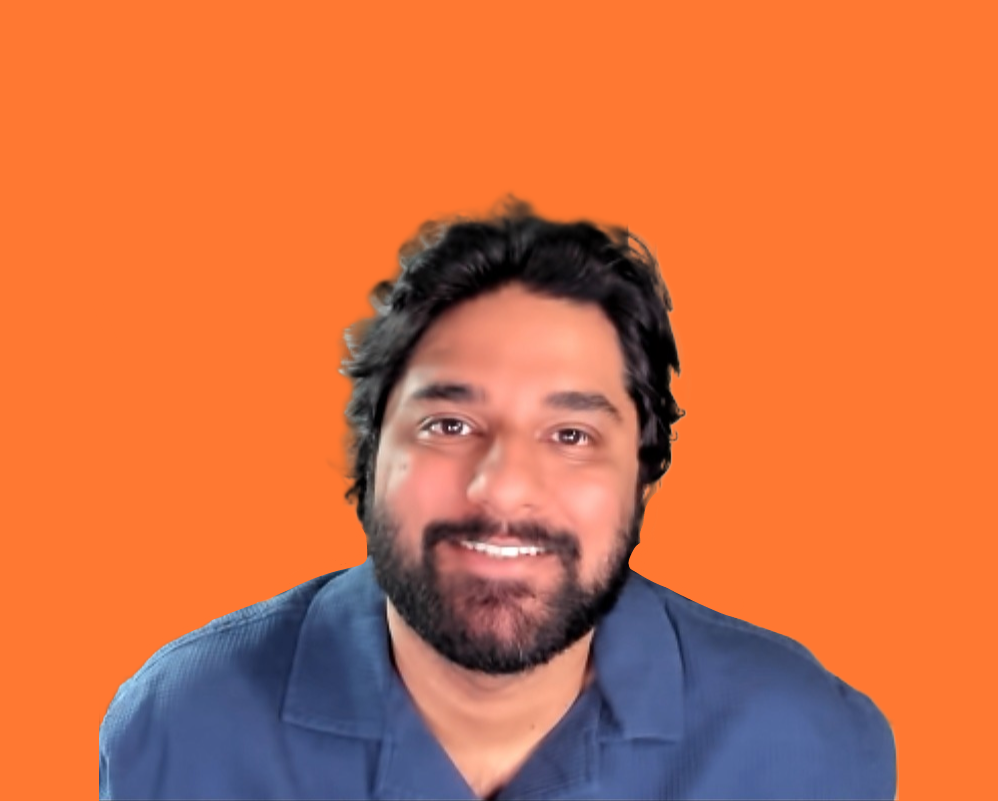
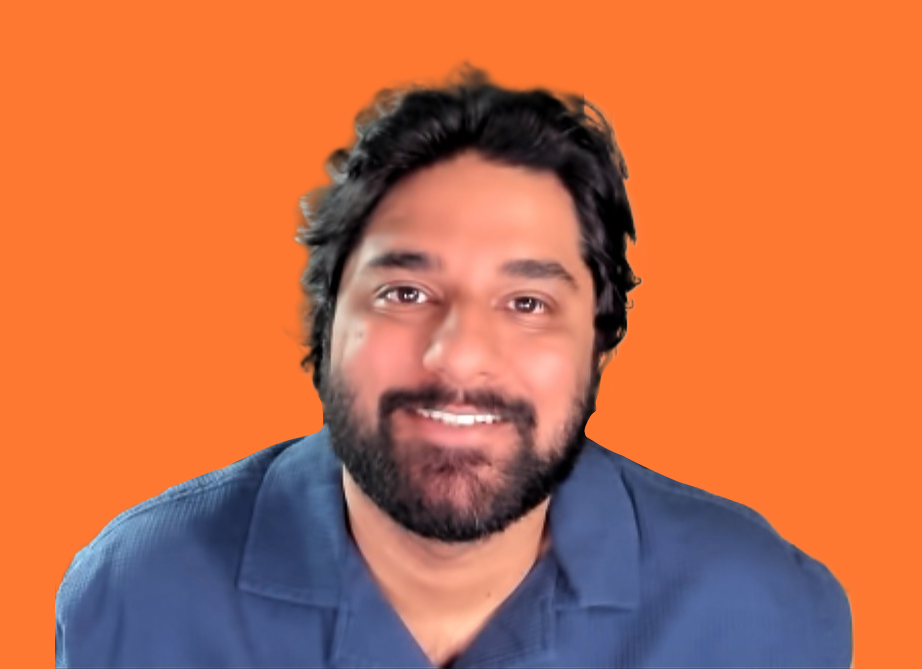
optimized for mobile, updated profile picture

Changed region(s): [[0.0607, 0.0897, 0.9414, 1.0], [0.3341, 0.9268, 0.3948, 1.0], [0.4252, 0.8969, 0.4555, 0.9567]]

diff --git a/app/Components/About.js b/app/Components/About.js
@@ -24,32 +24,47 @@ const About = () => {
   }, []);
 
   return (
-    <div className="flex space-y-9 flex-col">
-      <div className="flex flex-col absolute">
-        <h1 id="about" className="text-5xl font-spacemono text-white">
-          I love to
-        </h1>
-        <h1
-          className="text-7xl inline-block font-spacemono font-extrabold text-rose-500"
-          ref={el}
+    <div className="space-y-9 md:p-5">
+      <div className="md:flex md:flex-row md:justify-center space-x-56">
+        <div className="flex justify-center space-y-40 md:space-y-0">
+          <img src="/Monke.png" className="md:hidden rounded-full h-40" />
+          <div className="flex flex-col absolute md:pt-24">
+            <h1 id="about" className="text-5xl font-spacemono text-white">
+              I love to
+            </h1>
+            <h1
+              className="text-7xl inline-block font-spacemono font-extrabold text-rose-500"
+              ref={el}
+            />
+          </div>
+        </div>
+        <img
+          src="/Monke.png"
+          className="hidden md:block rounded-full md:h-72"
         />
       </div>
-      <div className="flex justify-center flex-row ">
-        <span className="pt-40 text-white font-spacemono">
+
+      <div className="flex flex-col justify-center md:flex-row space-y-5">
+        <span className="md:pt-0 pt-28 px-5 text-white font-spacemono">
           Howdy! I'm Akash, a Full-Stack Engineer passionate about creating
           delightful user experiences.
         </span>
-        <img src="/web-developer.svg" className="w-3/5 mt-[-175px] " />
       </div>
-      <div className="flex flex-row justify-evenly space-x-5">
+      <div className="flex flex-row justify-center md:space-x-56 space-x-24">
         <button className="text-white ease-out hover:translate-y-1 transition-all rounded">
           <a href="https://github.com/akashrdev" target="_blank">
-            <FontAwesomeIcon icon={faGithub} font-size="50px" />
+            <FontAwesomeIcon
+              icon={faGithub}
+              className="md:text-50px text-4xl"
+            />
           </a>
         </button>
         <button className=" text-blue-500 ease-out hover:translate-y-1 transition-all rounded">
           <a href="https://www.linkedin.com/in/akashrajan/" target="_blank">
-            <FontAwesomeIcon icon={faLinkedin} font-size="50px" />
+            <FontAwesomeIcon
+              icon={faLinkedin}
+              className="md:text-50px text-4xl"
+            />
           </a>
         </button>
         <button
@@ -58,13 +73,16 @@ const About = () => {
           className="btn text-yellow-500 ease-out hover:translate-y-1 transition-all rounded"
         >
           <a href="mailto:akashrdev@gmail.com?subject=I want to see your skills in action!">
-            <FontAwesomeIcon icon={faEnvelope} font-size="50px" />
+            <FontAwesomeIcon
+              icon={faEnvelope}
+              className="md:text-50px text-4xl"
+            />
           </a>
         </button>
       </div>
       <div className="flex justify-center">
         <a href="/Akash Rajan Resume.pdf" target="_blank">
-          <button className="bg-rose-500 rounded-lg text-white text-3xl font-spacemono justify-center py-3 px-5 flex hover:translate-y-1 transition-all">
+          <button className="bg-rose-500 rounded-lg text-white md:text-3xl text-2xl py-1 px-1 font-spacemono justify-center md:py-3 md:px-5 flex hover:translate-y-1 transition-all">
             Resume
           </button>
         </a>

diff --git a/app/Components/TechStack.js b/app/Components/TechStack.js
@@ -1,50 +1,51 @@
 const TechStack = () => {
   return (
-    <div className="flex flex-col border border-indigo-800 p-2">
-      <h1 className="flex text-4xl font-bold font-spacemono justify-center items-center text-white font-"></h1>
-      <div className="flex justify-center flex-row space-x-16 ">
+    <div className="flex flex-col border border-indigo-800 w-screen p-2 hidden md:block">
+      <h1 className="flex text-4xl font-spacemono justify-center items-center text-white font-"></h1>
+
+      <div className="relative flex justify-center flex-row md:space-x-16 space-x-5 align-middle">
         <img
-          className="h-16 w-16"
+          className="md:h-16 md:w-16 w-8"
           src="https://cdn.jsdelivr.net/gh/devicons/devicon/icons/javascript/javascript-plain.svg"
         />
 
         <img
-          className="h-16 w-16"
+          className="md:h-16 md:w-16 w-8"
           src="https://cdn.jsdelivr.net/gh/devicons/devicon/icons/react/react-original-wordmark.svg"
         />
 
         <img
-          className="h-16 w-16"
+          className="md:h-16 md:w-16 w-8"
           src="https://cdn.jsdelivr.net/gh/devicons/devicon/icons/nodejs/nodejs-original.svg"
         />
 
         <img
-          className="h-16 w-16"
+          className="md:h-16 md:w-16 w-8"
           src="https://cdn.jsdelivr.net/gh/devicons/devicon/icons/express/express-original.svg"
         />
 
         <img
-          className="h-16 w-16"
+          className="md:h-16 md:w-16 w-8"
           src="https://cdn.jsdelivr.net/gh/devicons/devicon/icons/postgresql/postgresql-plain-wordmark.svg"
         />
 
         <img
-          className="h-16 w-16"
+          className="md:h-16 md:w-16 w-8"
           src="https://cdn.jsdelivr.net/gh/devicons/devicon/icons/mongodb/mongodb-plain-wordmark.svg"
         />
 
         <img
-          className="h-16 w-16"
+          className="md:h-16 md:w-16 w-8"
           src="https://cdn.jsdelivr.net/gh/devicons/devicon/icons/docker/docker-plain-wordmark.svg"
         />
 
         <img
-          className="h-16 w-16"
+          className="md:h-16 md:w-16 w-8"
           src="https://cdn.jsdelivr.net/gh/devicons/devicon/icons/amazonwebservices/amazonwebservices-plain-wordmark.svg"
         />
 
         <img
-          className="h-16 w-16 text-white"
+          className="md:h-16 md:w-16 w-8 text-white"
           src="https://cdn.jsdelivr.net/gh/devicons/devicon/icons/nextjs/nextjs-original-wordmark.svg"
         />
       </div>

diff --git a/app/Components/Header.js b/app/Components/Header.js
@@ -2,19 +2,12 @@ import '../../app/globals.css';
 
 const Header = () => {
   return (
-    <div className="h-13 w-screen flex flex-row justify-between p-8 items-end">
+    <div className="w-screen flex flex-row justify-between p-5 md:pl-16">
       <a href="#">
-        <h1 className="text-6xl text-white font-spacemono ">Akash Rajan</h1>
+        <h1 className="md:text-4xl text-4xl text-white font-spacemono ">
+          Akash Rajan
+        </h1>
       </a>
-      <div className="flex">
-        {/* <button
-          href="/Akash Rajan Resume.pdf"
-          target="_blank"
-          className="flex bg-rose-500 rounded-lg text-white text-3xl py-3 px-7"
-        >
-          Resume
-        </button> */}
-      </div>
     </div>
   );
 };

diff --git a/app/page.js b/app/page.js
@@ -10,16 +10,16 @@ const Home = () => {
         backgroundImage: "url('/bg1.jpg')",
       }}
     >
-      <div className="flex">
+      <div className="">
         <Header />
       </div>
-      <div className="flex justify-center pt-14 pb-9">
+      <div className="">
         <About />
       </div>
-      <div className="p-9">
+      <div className="">
         <TechStack />
       </div>
-      <div className="p-9">
+      <div className="">
         <ProjectList />
       </div>
     </div>

diff --git a/tailwind.config.js b/tailwind.config.js
@@ -8,13 +8,16 @@ module.exports = {
   ],
   theme: {
     extend: {
+      fontSize: {
+        '50px': '50px',
+      },
       animation: {
         marquee: 'marquee 25s linear infinite',
       },
       keyframes: {
         marquee: {
           '0%': { transform: 'translateX(0%)' },
-          '100%': { transform: 'translateX(-100%)' },
+          '100%': { transform: 'translateX(-50%)' },
         },
       },
       fontFamily: {
